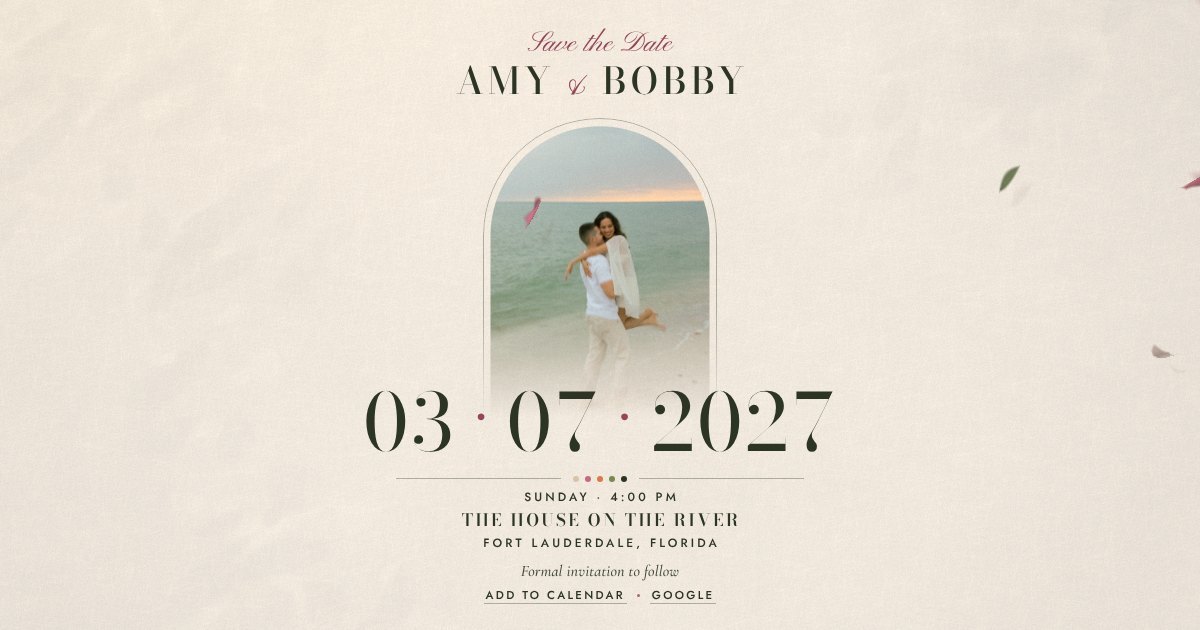
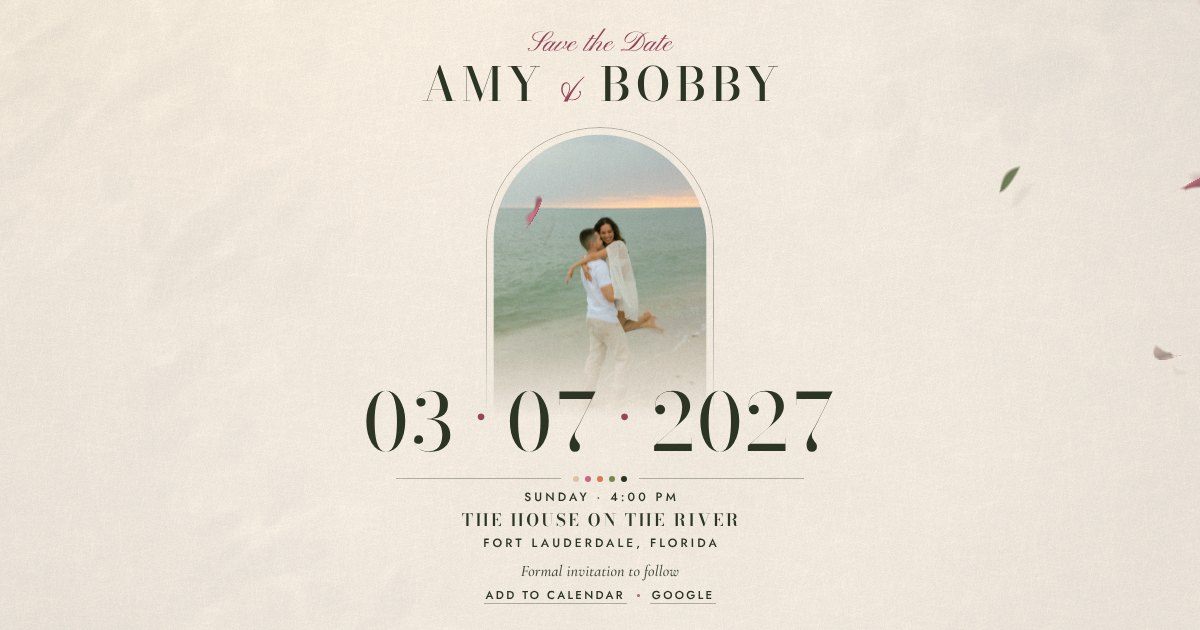
Floral: larger "Amy & Bobby"
About 30% bigger on phones (capped to the screen width so it stays on one
line) and about 25% bigger on desktop.

Claude-Session: https://claude.ai/code/session_01M5uPph5NuzQmWXCWNt6CbL

diff --git a/floral.html b/floral.html
@@ -61,7 +61,7 @@
   /* portrait (phone) scale */
   --g:clamp(6px, 1.25svh, 14px);
   --fs-script:clamp(28px, 4.3svh, 40px);
-  --fs-name:clamp(24px, 3.85svh, 36px);
+  --fs-name:clamp(24px, min(11.4vw, 5svh), 46px);
   --fs-date:min(14.6vw, 8svh, 76px);
   --fs-place:clamp(18px, 2.55svh, 24px);
   --fs-label:12px;
@@ -144,7 +144,7 @@ html.from-designs.done .back,html.from-designs.static .back{display:block}
   :root{
     --g:clamp(6px, 1.45svh, 18px);
     --fs-script:clamp(26px, 4.6svh, 52px);
-    --fs-name:clamp(28px, 5.9svh, 68px);
+    --fs-name:clamp(30px, 7.4svh, 86px);
     --fs-date:clamp(54px, 12.6svh, 150px);
     --fs-place:clamp(17px, 2.6svh, 28px);
     --fs-label:clamp(12px, 1.4svh, 15px);
